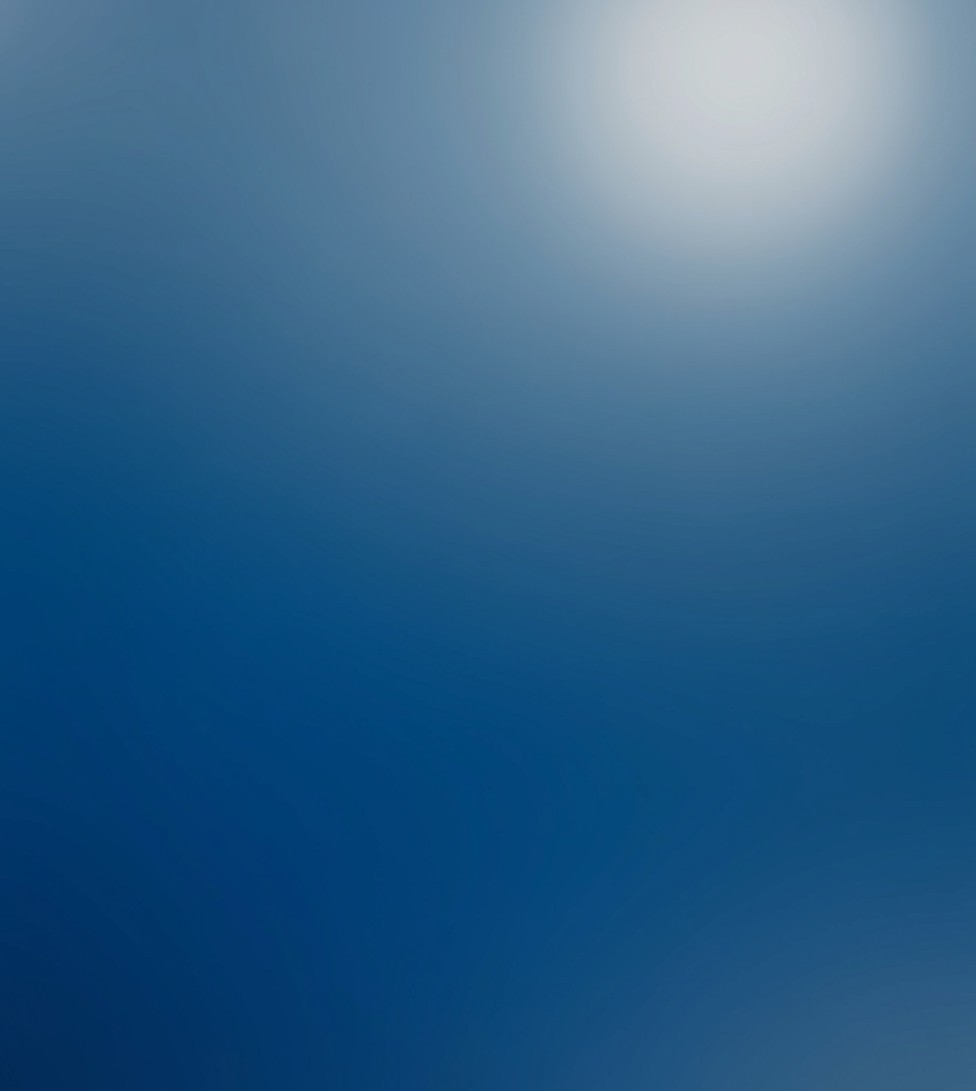
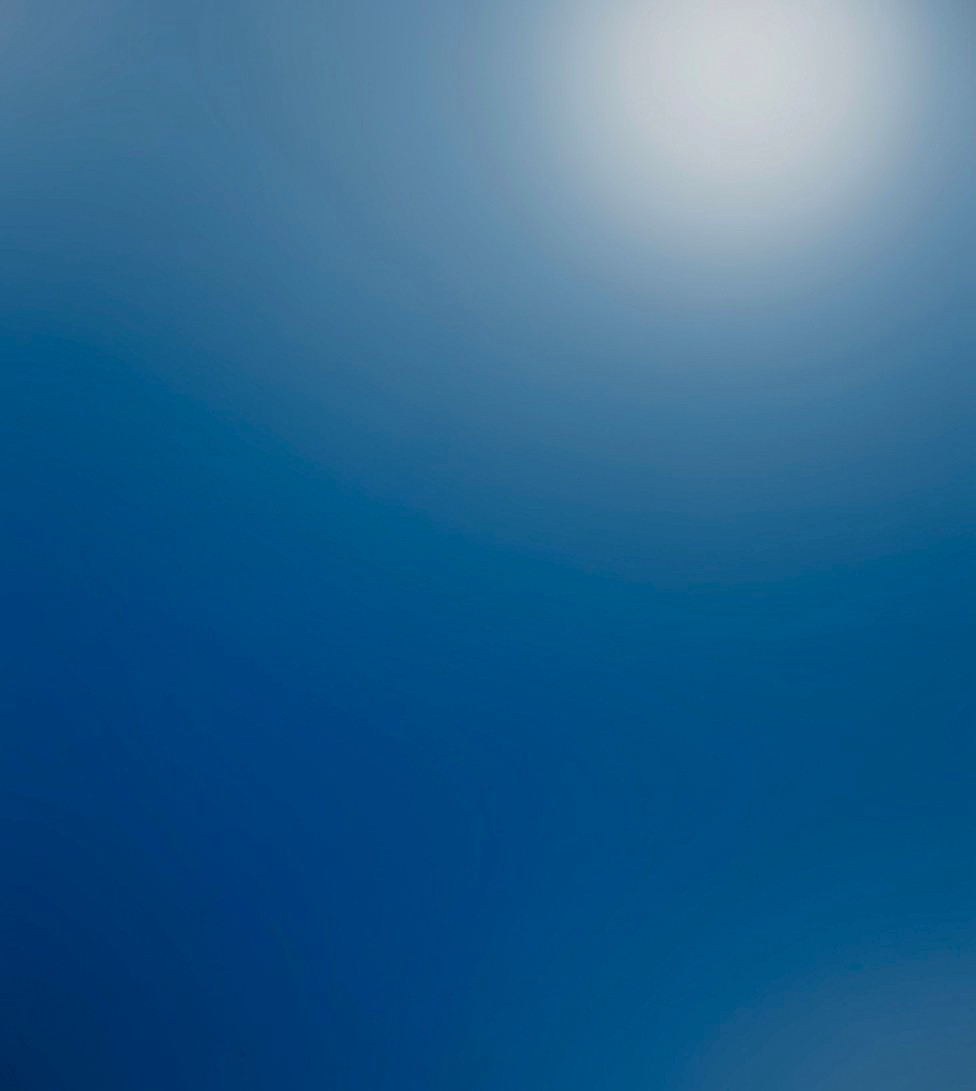
Fix GitHub Pages structure

Changed region(s): [[0.0, 0.2805, 1.0, 0.5921], [0.584, 0.7791, 1.0, 1.0]]

diff --git a/css/master.css b/css/master.css
@@ -116,7 +116,8 @@ h2 {
 }
 .header-area .links li a:hover,
 .header-area .theme-btn:hover {
-  color: #4e7ccb;
+  color: #1274d5;
+  scale: 1.125;
 }
 .header-area .toggle-menu {
   background: none;
@@ -202,7 +203,7 @@ h2 {
   z-index: 1;
 }
 .introduction-text .content {
-  gap: 1.2rem;
+  gap: 1.7rem;
   display: flex;
   flex-direction: column;
 }
@@ -210,7 +211,6 @@ h2 {
   font-size: 3.75rem;
   line-height: 1;
   color: var(--heading-color);
-  letter-spacing: 3px;
 }
 .introduction-text .content h2 span {
   background: linear-gradient(90deg, var(--btn-color), var(--text-color));
@@ -298,7 +298,6 @@ h2 {
   max-height: 17rem;
   width: 19rem;
   border-radius: 50%;
-  box-shadow: 21px 50px 20px rgba(0, 0, 0, 0.7);
 }
 .tilt-wrapper img {
   width: 20rem;
@@ -389,7 +388,7 @@ h2 {
 .reviews h2,
 .contact h2,
 .work .work-heading {
-  background: linear-gradient(90deg, var(--btn-color), var(--main-color));
+  background: linear-gradient(90deg, var(--btn-color), var(--text-color));
   background-size: 200% auto;
   background-clip: text;
   -webkit-text-fill-color: transparent;
@@ -427,18 +426,20 @@ h2 {
   font-size: 1.875rem;
   line-height: 2.25rem;
   font-weight: 600;
+  letter-spacing: 2px;
 }
 .info-box .career {
   background-color: var(--btn-color);
   width: fit-content;
   font-size: 0.875rem;
-  line-height: 1.25rem;
+  line-height: 1.25;
   padding: 0.25rem 0.5rem;
   border-radius: var(--border-radius);
+  letter-spacing: 2px;
 }
 .info-box p {
   font-size: 1rem;
-  line-height: 1.5rem;
+  line-height: 1.5;
   color: var(--text-color);
 }
 .about-me .btn {
@@ -558,20 +559,21 @@ h2 {
   position: relative;
   padding: 1rem;
 }
-.experience .tag,
+.experience .tag h2,
 .work .project .project-text h2,
 .reviews .revBox h2 {
   font-size: 1.2rem;
   padding: 0.5rem 0;
   text-align: center;
   color: var(--btn-color);
+  letter-spacing: 2px;
 }
 .experience .desc {
-  padding: 0 1rem 1rem 1rem;
+  padding-bottom: 0.5rem;
 }
 .experience .desc p {
   color: var(--p-color);
-  line-height: 1;
+  line-height: 1.2;
   font-size: 1rem;
   text-align: center;
 }
@@ -582,11 +584,11 @@ h2 {
 }
 .morebtn .btn span {
   font-weight: 600;
-  font-size: 1.7rem;
+  font-size: 1.2rem;
 }
 .morebtn .btn i {
   margin-left: 0.3rem;
-  font-size: 1.5rem;
+  font-size: 1.2rem;
   transition: 0.3s;
 }
 .morebtn .btn:hover {
@@ -891,16 +893,18 @@ form .button-area {
 }
 .button-area button,
 .morebtn .btn {
-  color: var(--btn-color);
   border: none;
   outline: none;
-  font-size: 1.5rem;
+  font-size: 1.2rem;
+  font-weight: bold;
   cursor: pointer;
   border-radius: var(--border-radius);
   padding: 1rem 1.3rem;
   background: var(--main-color);
   box-shadow: var(--box-shadow3);
   transition: 0.3s ease;
+  color: var(--btn-color);
+  background-color: var(--main-color);
 }
 .button-area button:hover {
   background: var(--btn-color);
@@ -915,7 +919,7 @@ form .button-area {
   position: relative;
   top: 6px;
   left: 2px;
-  font-size: 1.3rem;
+  font-size: 1.2rem;
   transition: 0.3s ease;
   color: var(--btn-color);
 }
@@ -1172,7 +1176,7 @@ form .button-area {
     transform: translateX(50px) scale(0.5);
   }
 }
-@media (max-width: 390px) {
+@media (max-width: 430px) {
   .experience .tag,
   .work .project .project-text h2,
   .experience .desc p,

diff --git a/index.html b/index.html
@@ -133,8 +133,8 @@
               </ul>
             </div>
           </div>
+          <!-- Tilt Image -->
         </div>
-        <!-- Tilt Image -->
         <div
           class="tilt-wrapper"
           id="tiltWrapper"
@@ -506,7 +506,6 @@
     <script type="module" src="js/firebase.js"></script>
     <script src="https://cdn.jsdelivr.net/particles.js/2.0.0/particles.min.js"></script>
     <script src="https://unpkg.com/aos@2.3.1/dist/aos.js"></script>
-
     <script>
       AOS.init({
         duration: 2500,
